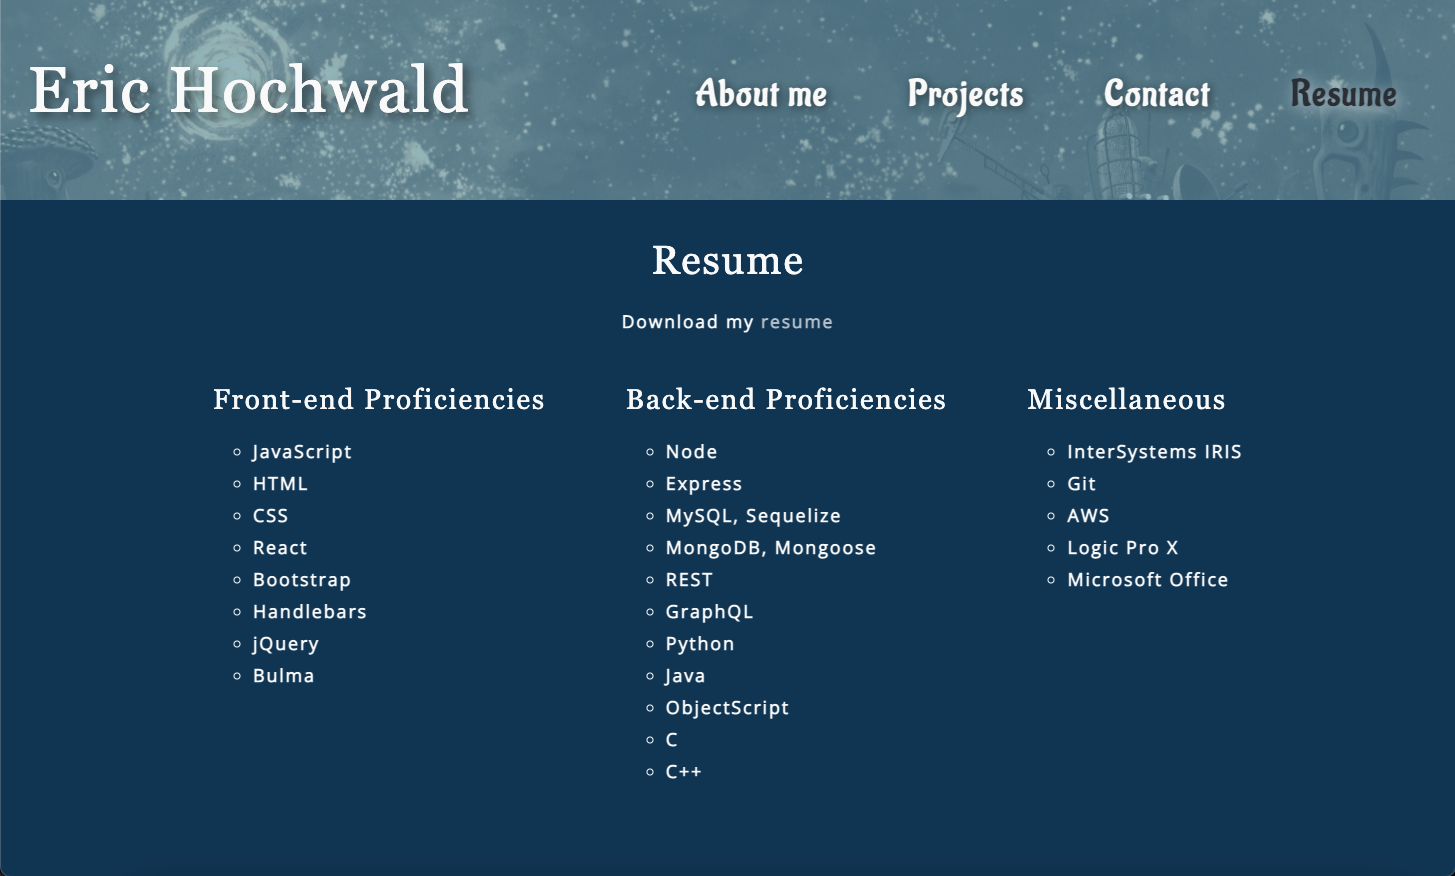
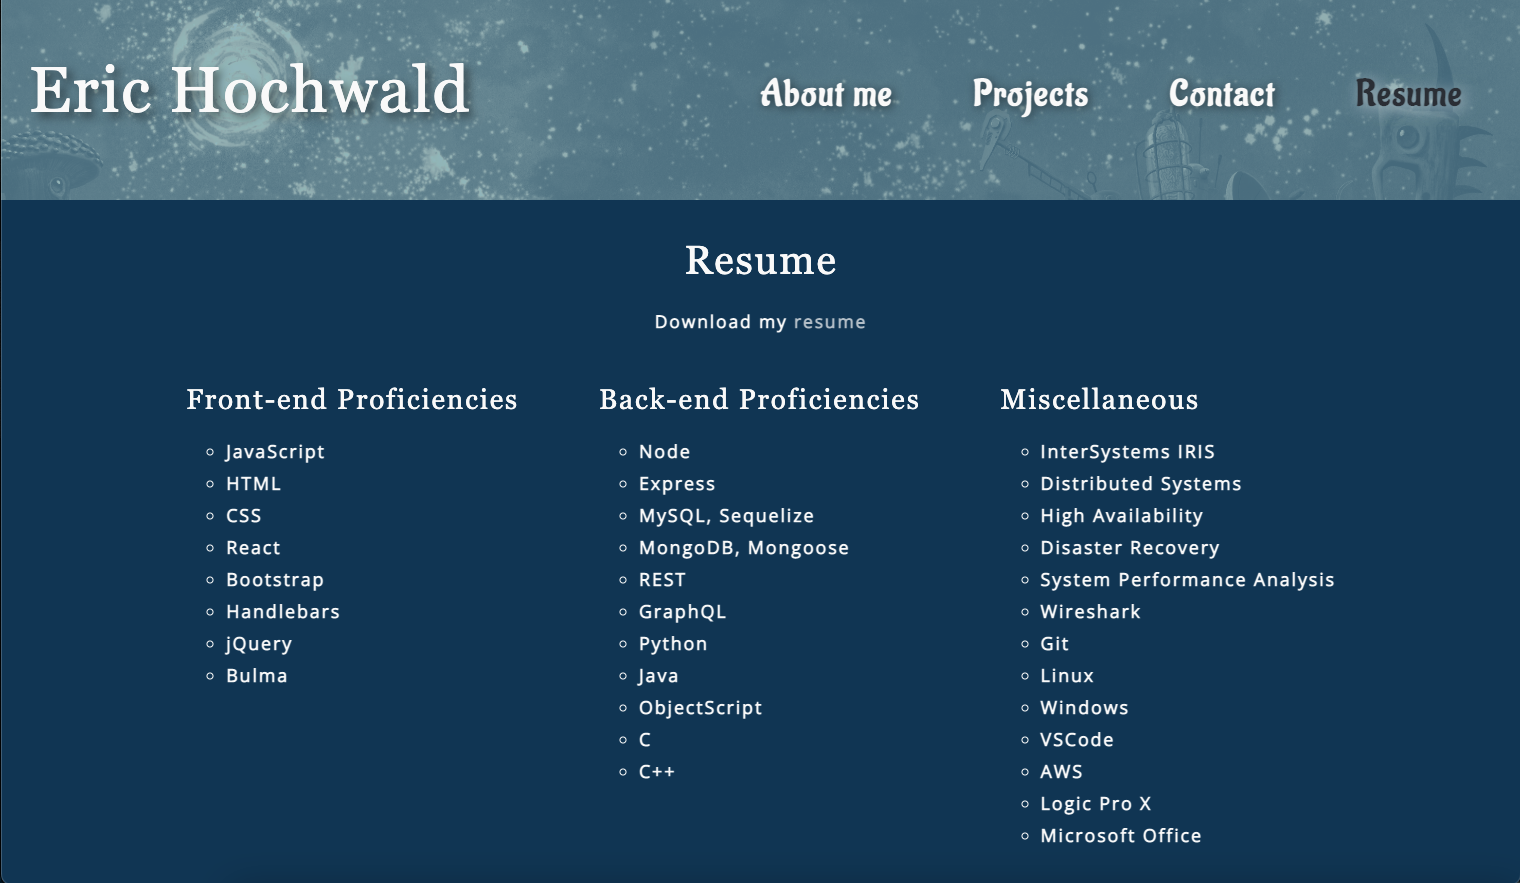
tweaked about blub

diff --git a/src/components/About.js b/src/components/About.js
@@ -12,10 +12,10 @@ function About() {
         />
         </div>
         <p>
-        Hello! My name is Eric and I am a solutions driven programmer with a support engineer background looking to pursue a career in Software Development. I pride myself in my strong technical skills towards building functional applications. I'm looking to apply my love and experience for problem solving by writing clean, quality code that addresses customer needs. I previously honed my technical and interpersonal problem solving skills daily in a fast-paced environment as a Support Engineer for a software company. I recently earned a certificate in full-stack web development from Columbia University via their full time coding bootcamp to expand on my Tufts University Computer Science background and give myself a great set skills to pursue a career in development. I developed newfound skills in Javascript, Node.js, HTML, CSS, React.js, Python, and Java.
+        Hello! My name is Eric and I am a solutions driven programmer with a support engineer background looking to pursue a career in Software Development. I pride myself in my strong technical skills towards building functional applications. I'm looking to apply my love and experience for problem solving by writing clean, quality code that addresses customer needs. I previously honed my technical and interpersonal problem solving skills daily in a fast-paced environment as a Support Engineer for a software company. I recently earned a certificate in full-stack web development from Columbia University via their full time coding bootcamp to expand on my Tufts University Computer Science background and give myself a great set skills to pursue a career in development. Here I developed my skills in JavaScript, Node.js, HTML, CSS, React.js, Python, and Java.
         </p>
         <p>
-        Besides an interest in programming, I have a passion for music and technology. I play guitar, drums, and cello in some music groups around Boston. I have spent many nights recording and producing music as well as playing in bands and some classical music groups. In order to bring to together my passion for programming and music, I recently built a music rating app with an MVC architecture using MySQL/Sequelize, Express.js, and Handlebars.js. I am excited to meld my passions of problem solving and creativity by kicking off a career in Software Engineering! 
+        Besides an interest in programming, I have a passion for music and technology. I play guitar, drums, and cello in some music groups around Boston. I have spent many nights recording and producing music as well as playing in bands and some classical music groups. In order to bring to together my passion for programming and music, I recently built a music rating app called MelloFiles with an MVC architecture using MySQL/Sequelize, Express.js, and Handlebars.js. I am excited to meld my passions of problem solving and creativity by kicking off a career in Software Engineering! 
         </p>
       </div>
     </section>

diff --git a/src/components/Resume.js b/src/components/Resume.js
@@ -4,7 +4,7 @@ function Resume() {
   return (
     <section>
         <p className="center">
-        Download my <a href="https://drive.google.com/uc?export=download&id=1w7--XaqeiNY6rUbcU5OuPKs3Z6TBzlGS">resume</a>
+        Download my <a href="https://drive.google.com/uc?export=download&id=18PCx9zxSxOqAbjGZBmMb_NhjITXccn5D">resume</a>
         </p>
       <div className="my-5" id="lists">
         <div className="proficiencies-list">
@@ -40,7 +40,15 @@ function Resume() {
           <h3>Miscellaneous</h3>
           <ul className="skills">
             <li>InterSystems IRIS</li>
+            <li>Distributed Systems</li>
+            <li>High Availability</li>
+            <li>Disaster Recovery</li>
+            <li>System Performance Analysis</li>
+            <li>Wireshark</li>
             <li>Git</li>
+            <li>Linux</li>
+            <li>Windows</li>
+            <li>VSCode</li>
             <li>AWS</li>
             <li>Logic Pro X</li>
             <li>Microsoft Office</li>

diff --git a/src/index.css b/src/index.css
@@ -1,7 +1,7 @@
 main {
   margin: 0 auto;
   max-width: 90%;
-  padding: 30px 10px;
+  padding: 30px 0px;
 }
 :root {
   --primary: #8c54ff;
@@ -414,6 +414,13 @@ textarea {
   text-align: center;
 }
 
+@media only screen and (max-width: 1400px) {
+  .proficiencies-list {
+    margin-left: 20px;
+    margin-right: 20px;
+  }
+}
+
 @media only screen and (max-width: 1340px) {
   nav {
     position: static;
@@ -502,9 +509,6 @@ textarea {
     line-height: 1.5rem;
     margin: 10px;
     text-align: left;
-  }
-  main {
-    padding: 30px 0px;
   }
   .project {
     height: 300px;
